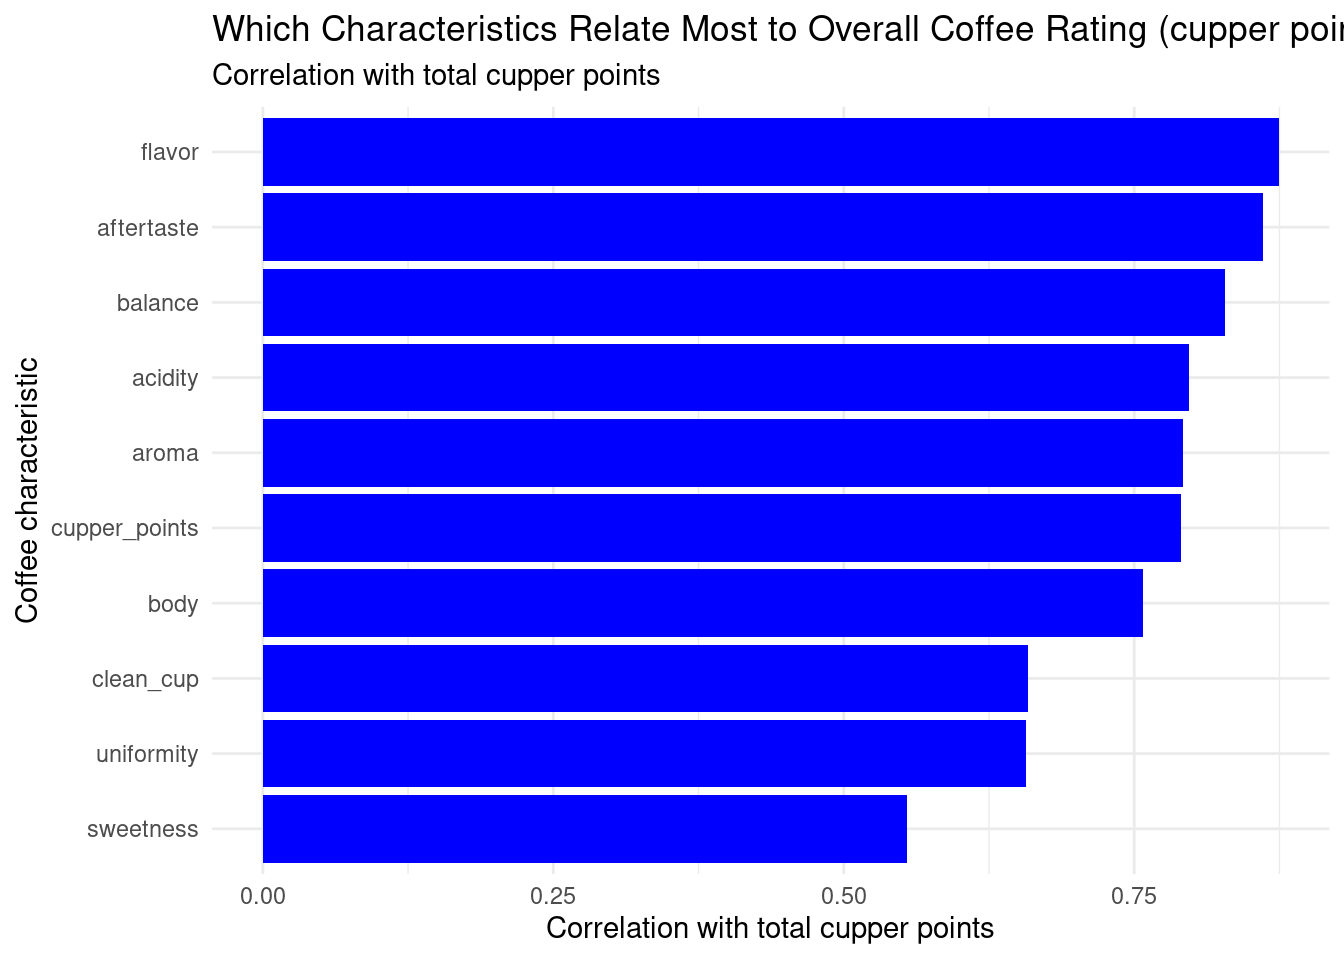
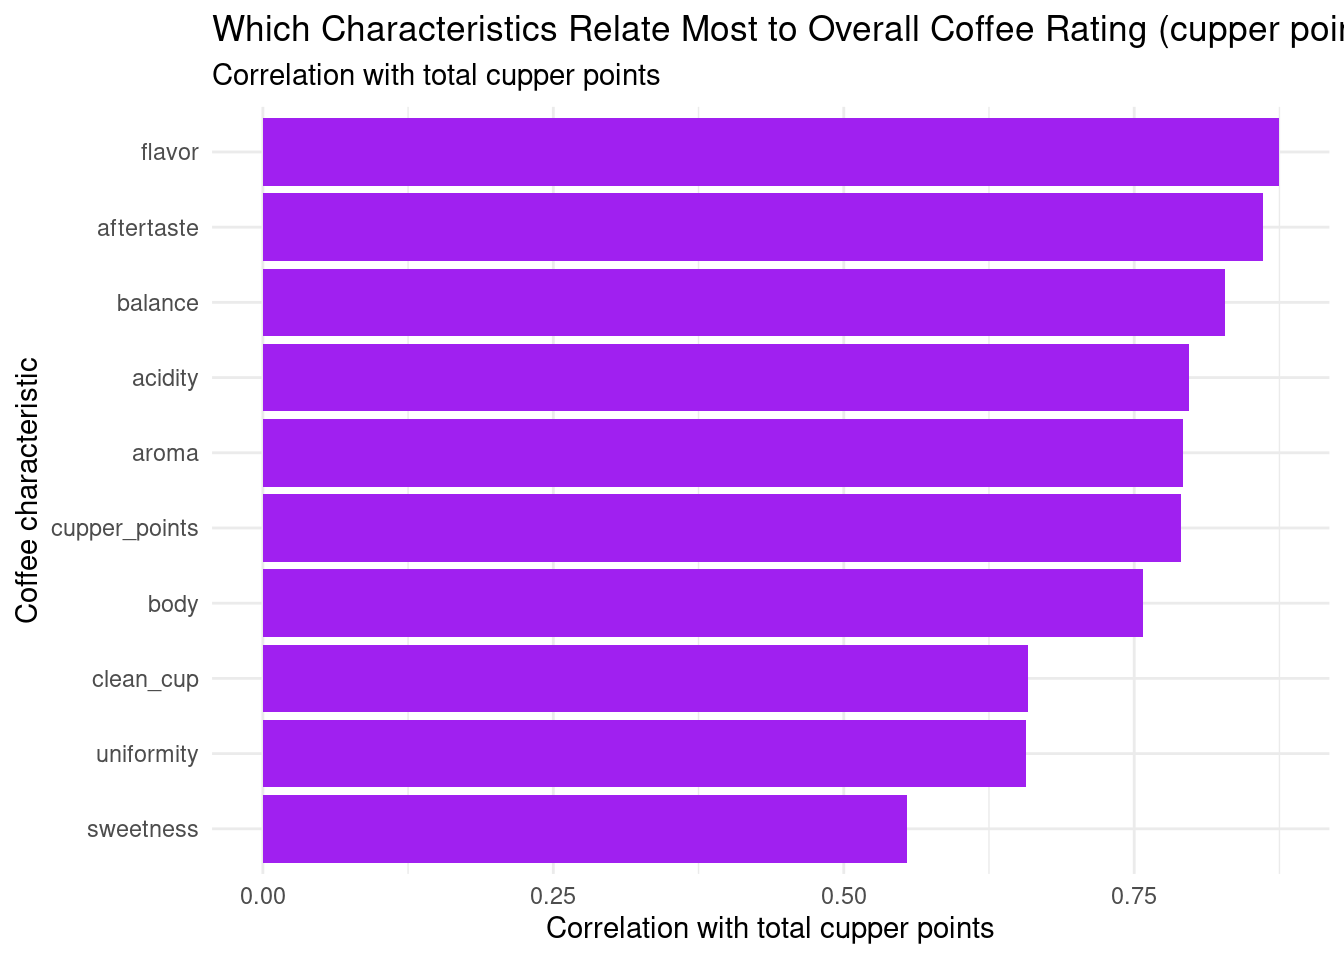
purple

diff --git a/docs/about.html b/docs/about.html
@@ -7,7 +7,7 @@
 <meta name="viewport" content="width=device-width, initial-scale=1.0, user-scalable=yes">
 
 
-<title>Celina – CStein2000.github.io</title>
+<title>About Celina – CStein2000.github.io</title>
 <style>
 /* Default styles provided by pandoc.
 ** See https://pandoc.org/MANUAL.html#variables-for-html for config info.
@@ -294,36 +294,40 @@ ul.task-list li input[type="checkbox"] {
 <!-- margin-sidebar -->
     
 <!-- main -->
-<div class="quarto-about-broadside column-body">
-  <div class="about-main">
-    <div class="about-entity" style="background-image: url('media/profilepic.png')"></div>
-    <div class="about-contents"><header id="title-block-header" class="quarto-title-block default">
+<div class="quarto-about-trestles column-page">
+  <div class="about-entity">
+    <img src="media/profilepic.png" class="about-image
+  rectangle " style="width: 17em;">
+<header id="title-block-header" class="quarto-title-block default">
 <div class="quarto-title">
-<h1 class="title">Celina</h1>
+<h1 class="title">About Celina</h1>
 </div>
-<div class="quarto-title-meta column-body">
+<div class="quarto-title-meta column-page">
   </div>
-</header><main class="content column-body" id="quarto-document-content">
+</header>
+    <div class="about-links">
+  <a href="https://github.com/CStein2000/CStein2000.github.io" class="about-link" rel="" target="">
+     <span class="about-link-text">GitHub Repo (website)</span>
+  </a>
+</div>
+  </div>
+  <div class="about-contents"><main class="content column-page" id="quarto-document-content">
 
-<p>I am a current senior at Pitzer College working to create inclusive, user-centered solutions in design and scientific research. As a Cognitive Science major and Data Science minor, I am excited to pursue roles in research labs and the tech industry that bridge scientific discovery, UX design, and ethical technological innovation.</p>
-<p>I’m currently seeking neuroscience research roles and product design/marketing internship experiences. I look forward to connecting with you!</p>
+<p>I am a senior at Pitzer College working to create inclusive, user-centered solutions in design and scientific research. As a Cognitive Science major and Data Science minor, I am excited to pursue roles in research labs and the tech industry that bridge scientific discovery, UX design, and ethical technological innovation.</p>
+<p>I’m currently seeking neuroscience research roles and product design/marketing internship experiences.</p>
 <section id="education" class="level3">
 <h3 data-anchor-id="education">Education</h3>
 <p>Pitzer College | Claremont, CA | BA in Cogntive Science, Minor in Data Science | Major specialization in neurophilosophy and human-centered design | September 2023 - May 2027</p>
 </section>
 <section id="experience" class="level3">
 <h3 data-anchor-id="experience">Experience</h3>
-<p>Active Minds, Pitzer College | Marketing Manager + Ambassador | Feb.&nbsp;2026 - Present Pitzer Division of Student Affairs | Social Media Intern | Jan.&nbsp;2026 - May 2026 The Outback Newsprint Magazine | Head Web Designer + Staff Editor | Dec.&nbsp;2023 - Jul.&nbsp;2025</p>
+<p>Active Minds, Pitzer College | Marketing Manager + Ambassador | Feb.&nbsp;2026 - Present</p>
+<p>Pitzer Division of Student Affairs | Social Media Intern | Jan.&nbsp;2026 - May 2026</p>
+<p>The Outback Newsprint Magazine | Head Web Designer + Staff Editor | Dec.&nbsp;2023 - Jul.&nbsp;2025</p>
 
 
 </section>
 </main></div>
-  </div>
-  <div class="about-links">
-  <a href="https://github.com/CStein2000/CStein2000.github.io" class="about-link" rel="" target="">
-     <span class="about-link-text">GitHub Repo (website)</span>
-  </a>
-</div>
 </div>
  <!-- /main -->
 <script id="quarto-html-after-body" type="application/javascript">

diff --git a/docs/tidyanalysis2.html b/docs/tidyanalysis2.html
@@ -431,7 +431,7 @@ pre > code.sourceCode > span > a:first-child::before { text-decoration: underlin
 <span id="cb3-7"><a href="#cb3-7" aria-hidden="true" tabindex="-1"></a>    <span class="at">y =</span> <span class="fu">reorder</span>(characteristic, correlation)</span>
 <span id="cb3-8"><a href="#cb3-8" aria-hidden="true" tabindex="-1"></a>  )</span>
 <span id="cb3-9"><a href="#cb3-9" aria-hidden="true" tabindex="-1"></a>) <span class="sc">+</span></span>
-<span id="cb3-10"><a href="#cb3-10" aria-hidden="true" tabindex="-1"></a>  <span class="fu">geom_col</span>(<span class="at">fill =</span> <span class="st">"blue"</span>) <span class="sc">+</span></span>
+<span id="cb3-10"><a href="#cb3-10" aria-hidden="true" tabindex="-1"></a>  <span class="fu">geom_col</span>(<span class="at">fill =</span> <span class="st">"purple"</span>) <span class="sc">+</span></span>
 <span id="cb3-11"><a href="#cb3-11" aria-hidden="true" tabindex="-1"></a>  <span class="fu">labs</span>(</span>
 <span id="cb3-12"><a href="#cb3-12" aria-hidden="true" tabindex="-1"></a>    <span class="at">title =</span> <span class="st">"Which Characteristics Relate Most to Overall Coffee Rating (cupper points)?"</span>,</span>
 <span id="cb3-13"><a href="#cb3-13" aria-hidden="true" tabindex="-1"></a>    <span class="at">subtitle =</span> <span class="st">"Correlation with total cupper points"</span>,</span>
@@ -451,8 +451,8 @@ pre > code.sourceCode > span > a:first-child::before { text-decoration: underlin
 </section>
 <section id="complete-citations" class="level2">
 <h2 class="anchored" data-anchor-id="complete-citations">Complete Citations</h2>
-<p>[TidyTuesday resource]</p>
-<p>[Original data source]</p>
+<p><a href="https://github.com/rfordatascience/tidytuesday/tree/main/data/2020/2020-07-07">TidyTuesday resource</a> The data was uploaded to the TidyTuesday repository by Jon Harmon.</p>
+<p><a href="https://github.com/jldbc/coffee-quality-database">Original data source</a> The original data can be found on James LeDoux’s github. LeDoux is a Buzzfeed Data Scientist who created this database based on reviews of arabica and robusta coffee beans from the Coffee Quality Institute’s trained reviewers.</p>
 
 
 </section>

diff --git a/docs/index.html b/docs/index.html
@@ -305,7 +305,8 @@ ul.task-list li input[type="checkbox"] {
   </div>
 </header><main class="content column-page" id="quarto-document-content">
 
-<p>Hello! My name is Celina, and I am a senior undergraduate student at Pitzer College in Claremont, CA. I study Cognitive Science with a dual-focus on philosophy of mind and design, and a minor in data science. I have worked in experience design, social media marketing, and cognitive science research in my internship experiences and academics. Outside of work, I love to thrift new fashion finds, experiment with different storytelling forms, and discuss political media.</p>
+<p>Hello! My name is Celina, and I am a senior undergraduate student at Pitzer College in Claremont, CA.</p>
+<p>I study Cognitive Science with a dual-focus on philosophy of mind and design, and a minor in data science. I have worked in experience design, social media marketing, and cognitive science research in my internship experiences and academics. Outside of work, I love to thrift new fashion finds, experiment with different storytelling forms, and discuss political media.</p>
 
 
 </main> 
